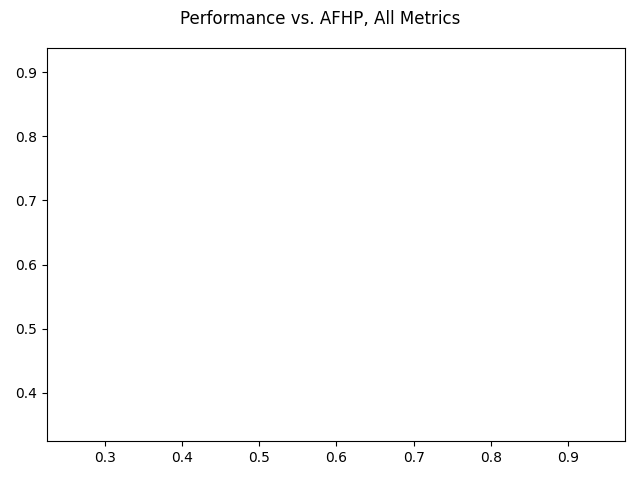
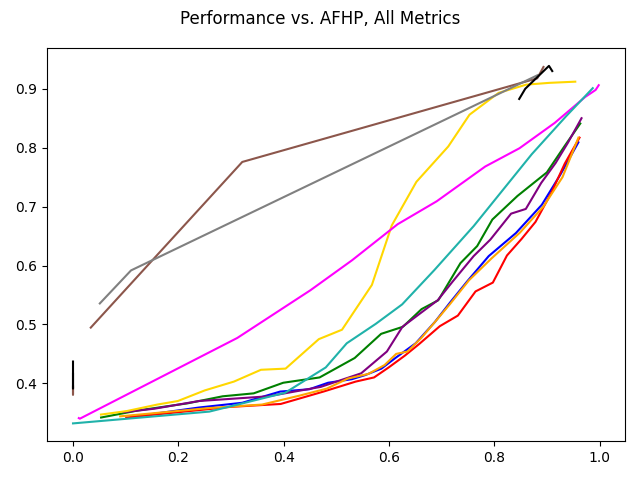
full analysis runsgit add .!

diff --git a/full_analysis.py b/full_analysis.py
@@ -188,9 +188,10 @@ if args.plotting:
 
 for metric in include_metrics:
     print("Doing metric", metric)
-    rew_by_perc = []
-    adj_rew_by_perc = []
-    help_props_by_perc = []
+    if args.grand_metric:
+        rew_by_perc = []
+        adj_rew_by_perc = []
+        help_props_by_perc = []
     if "T" in metric:
         iterable = query_costs
     elif "svdd" not in metric:
@@ -205,13 +206,8 @@ for metric in include_metrics:
             for line in evaluation:
                 if "all rewards" in line.lower():
                     rewards = eval(line[len("all rewards: "):].strip())
-                    print("old rewards", rewards)
                     if "T" in metric:
-                        max_run_length = max(run_lengths)
-                        for i, rew in enumerate(rewards):
-                            if rew > norm_factor:
-                                rewards[i] -= norm_factor * (max_run_length - run_lengths[i])
-                        print("new rewards", rewards)
+                        rewards = [min(reward, norm_factor) for reward in rewards]
                     else:
                         assert all([reward <= 10 for reward in rewards]), f"wtf {metric} {it} {rewards}"
                     if args.grand_metric:
@@ -234,17 +230,17 @@ for metric in include_metrics:
                     help_props = []
                     num_segments = 10
                     for i, helps in enumerate(help_times):
-                        run_length = len(run_lengths[i]) if "T" in metric else len(helps)
+                        run_length = run_lengths[i] if "T" in metric else len(helps)
                         help_props.append(sum(helps) / run_length)
                         if "T" not in metric:
                             run_lengths.append(len(helps))
-                        if args.plotting:
-                            segment_length = run_length // num_segments
-                            for j in range(num_segments):
-                                start = j * segment_length
-                                end = start + segment_length if j < num_segments - 1 else run_length
-                                segment = helps[start:end]
-                                help_asks_by_timestep[metric][round((k + 1) / 10, 1)].append(sum(segment) / len(segment))
+                        # if args.plotting:
+                            # segment_length = run_length // num_segments
+                            # for j in range(num_segments):
+                                # start = j * segment_length
+                                # end = start + segment_length if j < num_segments - 1 else run_length
+                                # segment = helps[start:end]
+                                # help_asks_by_timestep[metric][round((j + 1) / 10, 1)].append(sum(segment) / len(segment))
                     if args.grand_metric:
                         help_props_by_perc.append(help_props)
                     elif args.plotting:
@@ -253,26 +249,38 @@ for metric in include_metrics:
                     if args.plotting:
                         mega_mean_timestep_achieved.append(int(re.search(r"(\d+)", line).group(1)))
             assert len(run_lengths) == len(rewards), f"Mismatch in lengths: len(run_lengths) == {len(run_lengths)} and len(rewards) == {len(rewards)}"
-            curr_idx = 0
-            perc_adjusted_rewards = []
-            for reward, run_length in zip(rewards, run_lengths):
-                curr_run_length = 0
-                adjusted_reward = reward
-                while curr_run_length < run_length:
-                    if queries[curr_idx] == 1:
-                        adjusted_reward -= 10/256 * args.query_cost
-                    if switches[curr_idx] == 1:
-                        adjusted_reward -= 10/256 * args.switching_cost
-                    curr_idx += 1
-                    curr_run_length += 1
-                perc_adjusted_rewards.append(adjusted_reward)
-            if args.grand_metric:
-                adj_rew_by_perc.append(perc_adjusted_rewards)
-            elif args.plotting:
-                adj_rew_by_perc[metric].append(perc_adjusted_rewards)
+            try:
+                curr_idx = 0
+                perc_adjusted_rewards = []
+                for reward, run_length in zip(rewards, run_lengths):
+                    curr_run_length = 0
+                    adjusted_reward = reward
+                    while curr_run_length < run_length:
+                        if queries[curr_idx] == 1:
+                            adjusted_reward -= 10/256 * args.query_cost
+                        if switches[curr_idx] == 1:
+                            adjusted_reward -= 10/256 * args.switching_cost
+                        curr_idx += 1
+                        curr_run_length += 1
+                    perc_adjusted_rewards.append(adjusted_reward)
+                if args.grand_metric:
+                    adj_rew_by_perc.append(perc_adjusted_rewards)
+                elif args.plotting:
+                    adj_rew_by_perc[metric].append(perc_adjusted_rewards)
+            except (IndexError, UnboundLocalError):
+                if args.grand_metric:
+                    adj_rew_by_perc.append(logged_adjusted_rewards)
+                elif args.plotting:
+                    adj_rew_by_perc[metric].append(logged_adjusted_rewards)
             # print(f"Mean adj. reward for {it} = {np.mean(perc_adjusted_rewards)}")
         except (FileNotFoundError, KeyError):
             print(f"Missing data for {metric} at (pseudo) percentile/query cost {it}")
+            if args.plotting:
+                rew_by_perc[metric].append([np.nan])
+                adj_rew_by_perc[metric].append([np.nan])
+                help_props_by_perc[metric].append([np.nan])
+                for k in run_portions:
+                    help_asks_by_timestep[metric][round(k, 1)].append(np.nan)
 
     if args.grand_metric:
         # (x, y)_i = (average AFHP for percentile i, average performance for percentile i)
@@ -327,8 +335,6 @@ for metric in include_metrics:
         if PLOT_PROP_VS_PERC in args.plots:
             ax = axes2[plot_i // 4][plot_i % 4]
             help_prop_means, help_prop_stds, help_prop_sems = get_statistics_nested(help_props_by_perc[metric], True)
-            print("HELP PROP MEANS???")
-            print(help_prop_means)
             ax.plot(iterable, help_prop_means, color = colors[metric])
             ax.fill_between(iterable, help_prop_means - help_prop_stds, help_prop_means + help_prop_stds, color = colors[metric], alpha = 0.3)
             # for x, y in zip(percentiles, help_prop_means):
@@ -426,14 +432,11 @@ if args.plotting:
         # (x, y)_i = (average AFHP for percentile i, average performance for percentile i)
         for metric in include_metrics:
             afhp_means, afhp_stds, afhp_sems = get_statistics_nested(help_props_by_perc[metric], True)
-            print("GROUPED... afhp means?")
-            print(afhp_means)
             rew_means, rew_stds, rew_sems = get_statistics_nested(rew_by_perc[metric], True)
-            print("GROUPED... rew means?")
-            print(rew_means)
             adj_rew_means, adj_rew_stds, adj_rew_sems = get_statistics_nested(adj_rew_by_perc[metric], True)
             axes5.plot(afhp_means, rew_means, color = colors[metric], label = f"Reward (mean SD: {np.round(np.mean(rew_stds), 2)})")
             # ax.plot(afhp_means, adj_rew_means, color = colors[metric], linestyle = "dashed", label = f"Adj. Reward (mean SD: {np.round(np.mean(adj_rew_stds), 2)})")
         fig5.suptitle("Performance vs. AFHP, All Metrics")
         fig5.tight_layout()
         fig5.savefig(f"plots/{args.test_env}/{args.prefix}_performance_by_afhp_all{args.suffix}.png")
+        print("Done one plot of grouped 3")
